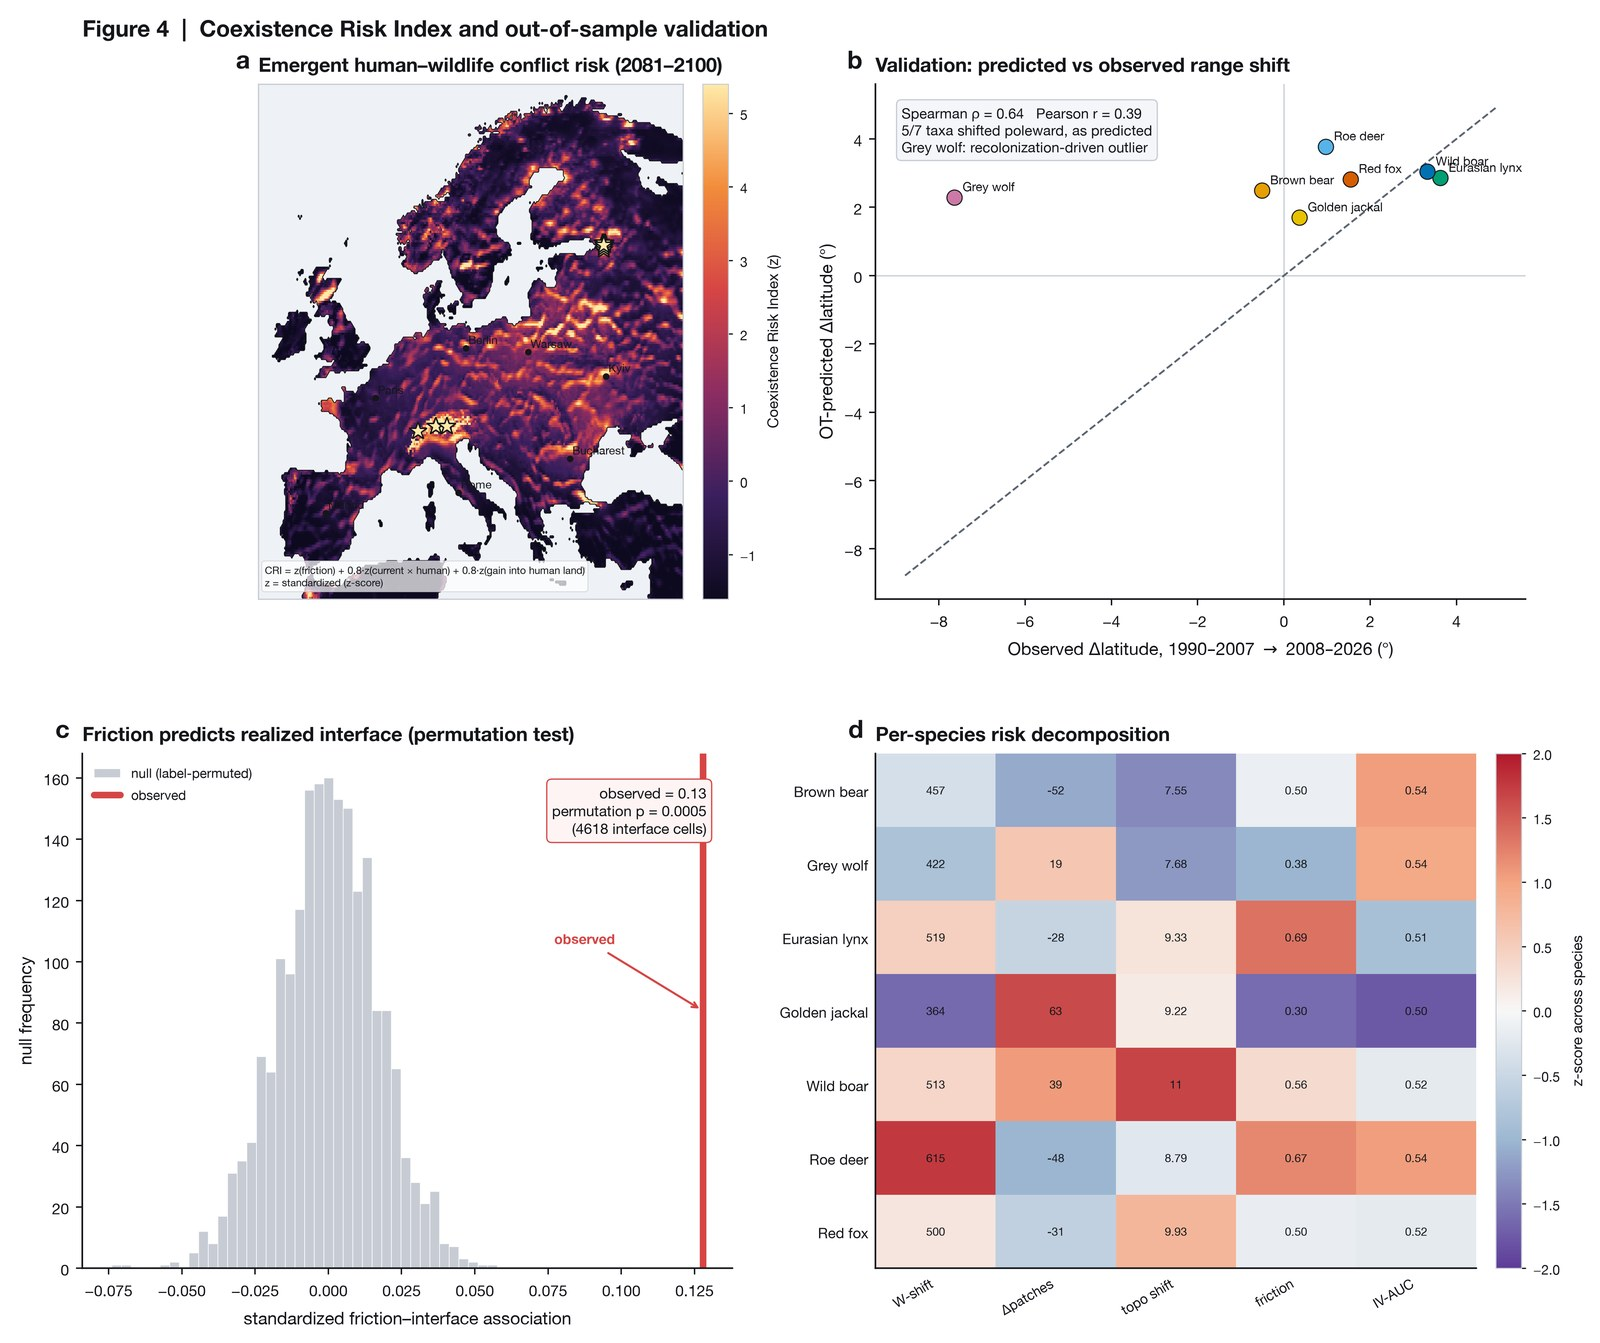
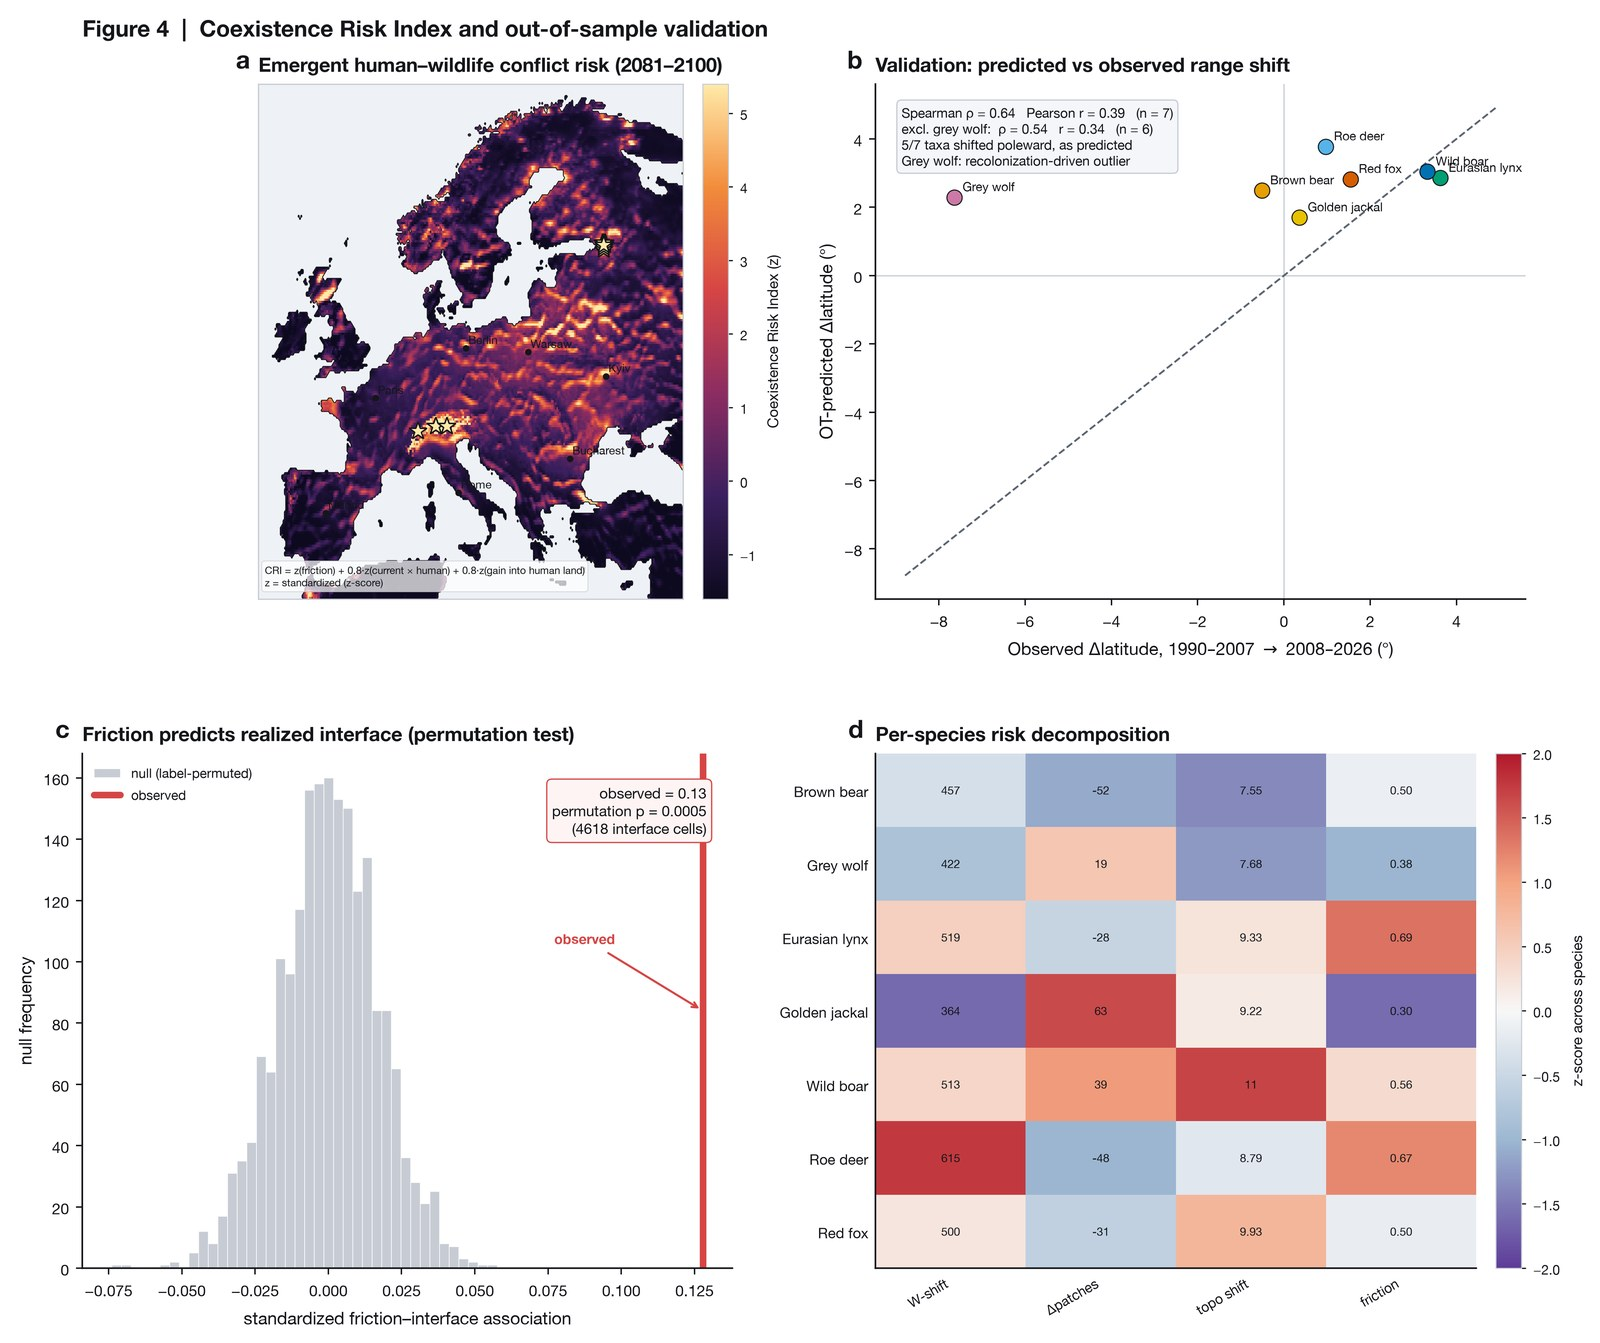
Fig 4b: add grey-wolf-excluded correlations; Fig 4d: drop interface-AUC column
No numerical result changed; the added statistics are recomputed from the same
committed summary.json shift values.

Fig 4b (+ results finding 4): alongside the full-sample statistics (Spearman
rho = 0.64, Pearson r = 0.39; n = 7), the panel and finding 4 now report the same
correlations with the grey-wolf recolonization outlier removed: rho = 0.54,
r = 0.34 (n = 6). Framed honestly -- excluding the outlier does NOT inflate the
agreement (it is slightly lower), so the match does not depend on that one point.
Computed dynamically in fig4.py::panel_b.

Fig 4d: removed the 'IV-AUC' (interface AUC) column from the per-species risk
decomposition heatmap; the remaining four signals (W-shift, dpatches, topo shift,
friction) are unchanged (each column is z-scored independently).

Regenerated figure4_risk_validation PNG/PDF + web JPG. Docs updated (CHANGES pass
7, HANDOFF). verify.sh: 42 passed, 0 failed.

diff --git a/project/website/index.html b/project/website/index.html
@@ -234,9 +234,11 @@
       <h4>Two independent tests — neither uses conflict data <span class="badge info">out-of-sample</span></h4>
       <p><b>Test 1 (mechanism).</b> Splitting each species' records into a 1990–2007 and a
         2015–2026 epoch, five of seven taxa shifted poleward exactly as predicted; predicted and
-        observed shifts are rank-correlated (<b>Spearman &rho; = 0.64</b>). The grey wolf is the
-        lone outlier — its recent range change is driven by legal-protection recolonization, a
-        known non-climate confound.<br>
+        observed shifts are rank-correlated (<b>Spearman &rho; = 0.64</b>, Pearson r = 0.39; n = 7).
+        The grey wolf is the lone outlier — its recent range change is driven by legal-protection
+        recolonization, a known non-climate confound. Excluding it leaves a similar, slightly lower
+        association (<b>&rho; = 0.54</b>, r = 0.34; n = 6), so the agreement does not depend on that
+        one point.<br>
         <b>Test 2 (interface).</b> Coexistence Friction significantly predicts which
         human-dominated cells actually hold recent wildlife records
         (<b>permutation p = 0.0005</b>, 4,618 cells) — despite never being trained on those labels.</p></div></div>

diff --git a/project/src/fig4.py b/project/src/fig4.py
@@ -54,7 +54,7 @@ def panel_a(ax, A):
 def panel_b(ax, A):
     s = FD.load_summary()
     sps = FD.species_present(A)
-    xs, ys, cols, labs = [], [], [], []
+    xs, ys, cols, labs, keys = [], [], [], [], []
     for sp in sps:
         r = s["species"][sp]
         if r["observed_shift"] is None:
@@ -62,7 +62,8 @@ def panel_b(ax, A):
         xs.append(r["observed_shift"]["d_lat"])
         ys.append(r["predicted_shift"]["d_lat"])
         cols.append(C.SPECIES_COLOR[sp]); labs.append(C.SPECIES_COMMON[sp])
-    xs = np.array(xs); ys = np.array(ys)
+        keys.append(sp)
+    xs = np.array(xs); ys = np.array(ys); keys = np.array(keys)
     lim = np.array([min(xs.min(), ys.min()), max(xs.max(), ys.max())])
     pad = 0.1 * (lim[1] - lim[0] + 1e-9)
     lim = lim + np.array([-pad, pad])
@@ -77,11 +78,17 @@ def panel_b(ax, A):
         r, p = pearsonr(xs, ys)
         rho, _ = spearmanr(xs, ys)
         n_pole = int(np.sum(xs > 0))
+        # same correlations with the grey-wolf recolonization outlier removed,
+        # shown for transparency: excluding it does NOT inflate the agreement.
+        nw = keys != "Canis lupus"
+        rw, _ = pearsonr(xs[nw], ys[nw])
+        rhow, _ = spearmanr(xs[nw], ys[nw])
         ax.text(0.04, 0.96,
-                f"Spearman ρ = {rho:.2f}   Pearson r = {r:.2f}\n"
+                f"Spearman ρ = {rho:.2f}   Pearson r = {r:.2f}   (n = {len(xs)})\n"
+                f"excl. grey wolf:  ρ = {rhow:.2f}   r = {rw:.2f}   (n = {int(nw.sum())})\n"
                 f"{n_pole}/{len(xs)} taxa shifted poleward, as predicted\n"
                 f"Grey wolf: recolonization-driven outlier",
-                transform=ax.transAxes, va="top", fontsize=6.9,
+                transform=ax.transAxes, va="top", fontsize=6.5,
                 bbox=dict(boxstyle="round,pad=0.35", fc="#f4f6f9", ec=FS.FAINT, lw=0.6))
     ax.set_xlabel(r"Observed $\Delta$latitude, 1990–2007 $\rightarrow$ 2008–2026 (°)")
     ax.set_ylabel("OT-predicted Δlatitude (°)")
@@ -131,8 +138,7 @@ def panel_c(ax, A):
 
 def panel_d(ax, A):
     s = FD.load_summary(); sps = FD.species_present(A)
-    metrics = ["W_shift_km", "Δfragmentation", "topo_change_W1",
-               "mean_friction", "interface_AUC"]
+    metrics = ["W_shift_km", "Δfragmentation", "topo_change_W1", "mean_friction"]
     M = np.full((len(sps), len(metrics)), np.nan)
     for i, sp in enumerate(sps):
         r = s["species"][sp]
@@ -141,12 +147,11 @@ def panel_d(ax, A):
         M[i, 2] = r["topo_change_W1"]
         fr = A[f"friction__{sp}"]
         M[i, 3] = np.nanmean(fr[np.isfinite(fr) & (fr > 0)]) if np.isfinite(fr).any() else np.nan
-        M[i, 4] = r["interface"]["auc_friction"] if r["interface"] else np.nan
     # z-score columns for comparability
     Z = (M - np.nanmean(M, axis=0)) / (np.nanstd(M, axis=0) + 1e-9)
     im = ax.imshow(Z, aspect="auto", cmap=FS.DIVSHIFT, vmin=-2, vmax=2)
     ax.set_xticks(range(len(metrics)))
-    ax.set_xticklabels(["W-shift", "Δpatches", "topo shift", "friction", "IV-AUC"],
+    ax.set_xticklabels(["W-shift", "Δpatches", "topo shift", "friction"],
                        rotation=30, ha="right", fontsize=6.6)
     ax.set_yticks(range(len(sps)))
     ax.set_yticklabels([C.SPECIES_COMMON[sp] for sp in sps], fontsize=7)

diff --git a/project/docs/CHANGES.md b/project/docs/CHANGES.md
@@ -228,6 +228,25 @@ value still traces to the same committed pipeline output.
   flagship figure, so no information was lost. `verify.sh` updated accordingly (no longer
   checks `fig4d.json`; now 40 checks, 0 failed).
 
+## Figures & results — pass 7 (Fig 4b outlier-excluded correlations; Fig 4d column removed)
+
+No numerical result changed; the added statistics are recomputed from the same committed
+`summary.json` range-shift values. Nothing was invented, inflated, or cherry-picked.
+
+- **Fig 4b (+ results finding 4) — grey-wolf-excluded correlations added.** The
+  predicted-vs-observed range-shift panel now reports, alongside the full-sample statistics
+  (Spearman ρ = 0.64, Pearson r = 0.39; n = 7), the same correlations computed with the grey
+  wolf — the recolonization-driven outlier — removed: **Spearman ρ = 0.54, Pearson r = 0.34
+  (n = 6)**. Framed honestly: excluding the outlier does **not** inflate the agreement — it is
+  slightly *lower* — so the match does not depend on that single point (rather than cherry-picking
+  a higher post-exclusion number). Computed dynamically in `fig4.py::panel_b`; the identical
+  numbers appear in finding 4 on the results page (`index.html`).
+- **Fig 4d — interface-AUC column removed.** The per-species risk-decomposition heatmap no
+  longer includes the "IV-AUC" (interface AUC) column. The remaining four signals (W-shift,
+  Δpatches, topo shift, mean friction) are unchanged — each column is z-scored independently, so
+  their colours and values are identical to before. `fig4.py::panel_d`.
+- Regenerated `figure4_risk_validation` PNG/PDF + web JPG from the committed results.
+
 ## Per-species Coexistence Risk (pass 4) — new analysis, same recipe
 
 Added **per-species CRI maps** so a viewer can see *which taxon drives each hotspot*.

diff --git a/HANDOFF.md b/HANDOFF.md
@@ -192,7 +192,9 @@ Global Human Modification. Domain = Europe, bbox lon[-12,40] lat[34,72], grid 1/
   Pearson r = 0.39 (n=7). 5/7 taxa observed poleward. **Grey wolf is the one outlier** —
   its recent range change is legal-protection-driven *recolonization* (Chapron et al. 2014),
   a known non-climate confound. Observed shifts come from splitting GBIF into a 1990–2007
-  epoch (`occ_hist_*`) vs the recent `occ_*` records.
+  epoch (`occ_hist_*`) vs the recent `occ_*` records. **Robustness note (honest):** removing
+  the wolf does *not* inflate the fit — excluding it gives ρ = 0.54, r = 0.34 (n=6), slightly
+  lower, so the agreement is not an artefact of that one point (shown on Fig 4b + results finding 4).
 - **Validation 2 (interface):** Coexistence Friction predicts which human-dominated cells
   hold recent occurrences — standardized association 0.13, **permutation p = 0.0005**
   (4,618 interface cells).
@@ -300,8 +302,9 @@ Individual stages (`cd project/src && ../.venv/bin/python X.py`):
 - `figure3_connectivity_topology` — (a) movement current, (b) conflict corridors + pinch
   points, (c) persistence diagram, (d) persistence landscapes.
 - `figure4_risk_validation` — (a) CRI map + hotspot stars + cities, (b) predicted-vs-observed
-  shift scatter (wolf outlier annotated, Spearman + Pearson), (c) friction–interface
-  permutation null, (d) per-species risk heatmap.
+  shift scatter (wolf outlier annotated; Spearman + Pearson for all n=7 **and** with the grey
+  wolf excluded, n=6), (c) friction–interface permutation null, (d) per-species risk heatmap
+  (four signals: W-shift, Δpatches, topo shift, friction — the interface-AUC column was removed).
 - `figureS1_robustness` — (a) scenario dumbbell, (b) friction scenario-invariance scatter
   (r=0.98), (c) OT reg + grid sensitivity, (d) MaxEnt constraint check (r=0.99998).
 - `figureSDM_present_future` — one map per species: filled present suitability, dashed 2090